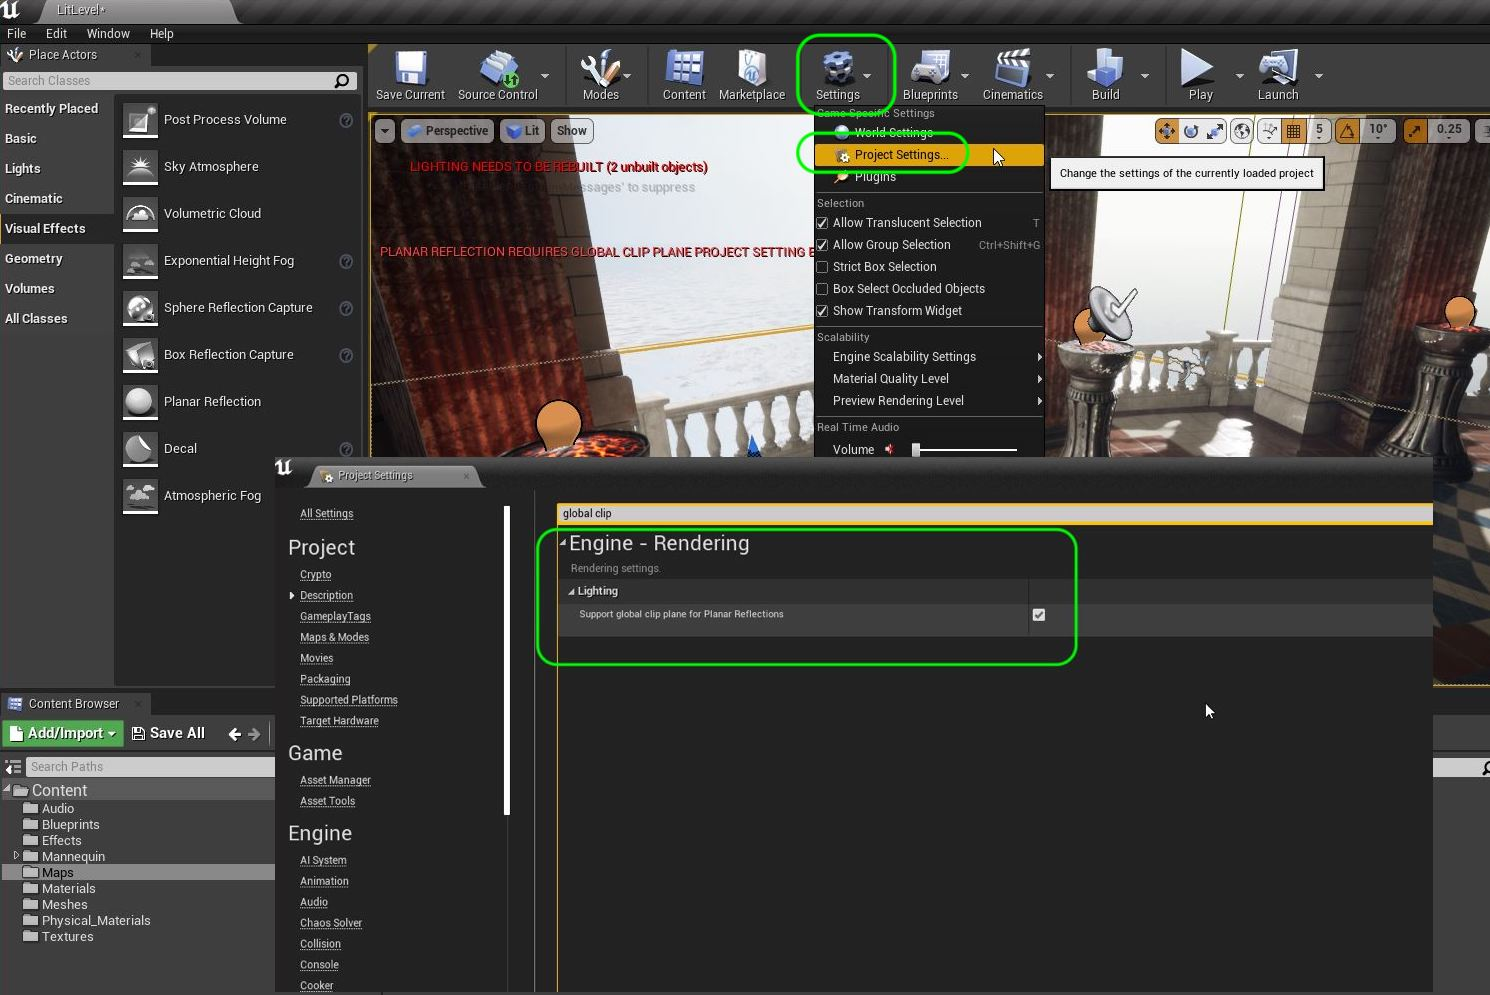
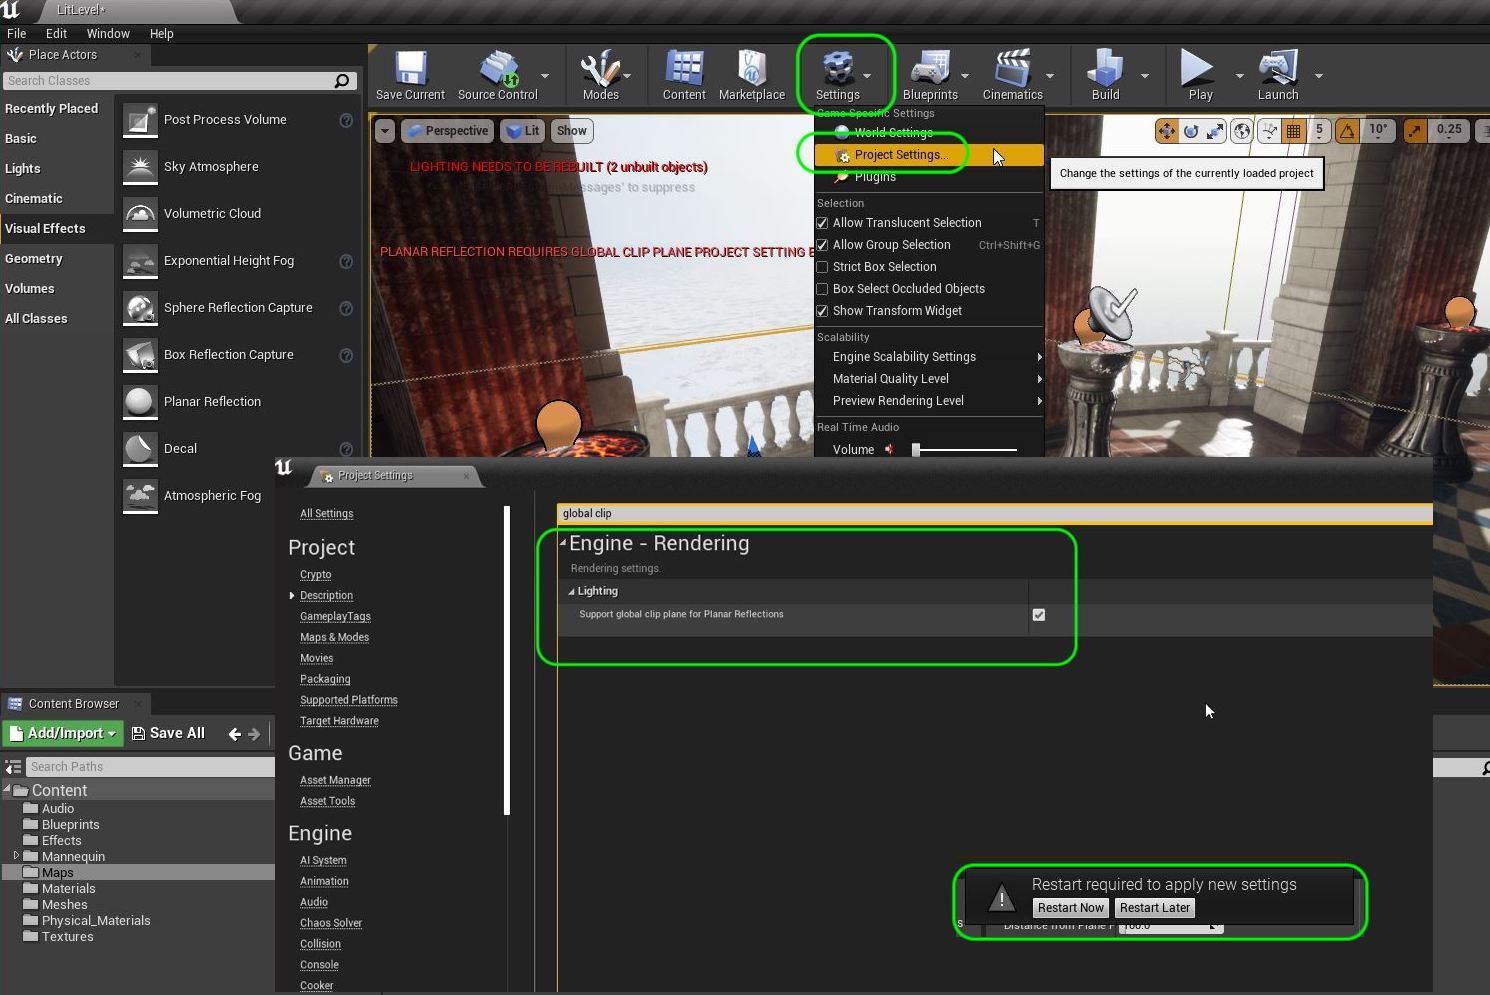
porting over old walk through

Changed region(s): [[0.6174, 0.8412, 0.9262, 0.9658]]

diff --git a/reflection/README.md b/reflection/README.md
@@ -180,15 +180,20 @@ Now these reflections are fairly inexpensive.  We need to be carefull about how 
 
 This increases the render time dramatically. For those who are not doing intense games and are doing visualizations or virtual productions, this is a powerful mode that can make water and reflective survaces look SO much more realistic.
 
-To turn it on go to **Settings | Project Settings** and check the box for **Engine | Rendering | Support global clip plane for Planar Reflections**.  It will require a rebooting of the game for this option to take effect.  In my case it took a long time to reboot. It launched a bunch of shader compilers so it looks like it had to rebuild ALL the materials.
+Before turning on this feature lets make this our default map.  Open up **Settings | Project Settings | Maps and Modes** and put the **Lit Level** as our two default ones.
 
-![turn global clip plan setting on](images/TurnPlanarReflectionsOn.jpg)
+![set lit level as default load](images/MapsAndModes.jpg)
+
+
 
 <img src="https://via.placeholder.com/500x2/45D7CA/45D7CA" alt="drawing" height="2px" alt = ""/>
 
 ##### `Step 18.`\|`ITL`| :large_blue_diamond: :small_orange_diamond: :small_blue_diamond: :small_blue_diamond: :small_blue_diamond:
 
-![alt_text](images/.jpg)
+To turn it on support for planar reflections, go to **Settings | Project Settings** and check the box for **Engine | Rendering | Support global clip plane for Planar Reflections**.  It will require a rebooting of the game for this option to take effect.  In my case it took a long time to reboot. It launched a bunch of shader compilers so it looks like it had to rebuild ALL the shaders.
+
+![turn global clip plan setting on](images/TurnPlanarReflectionsOn.jpg)
+
 
 <img src="https://via.placeholder.com/500x2/45D7CA/45D7CA" alt="drawing" height="2px" alt = ""/>
 
